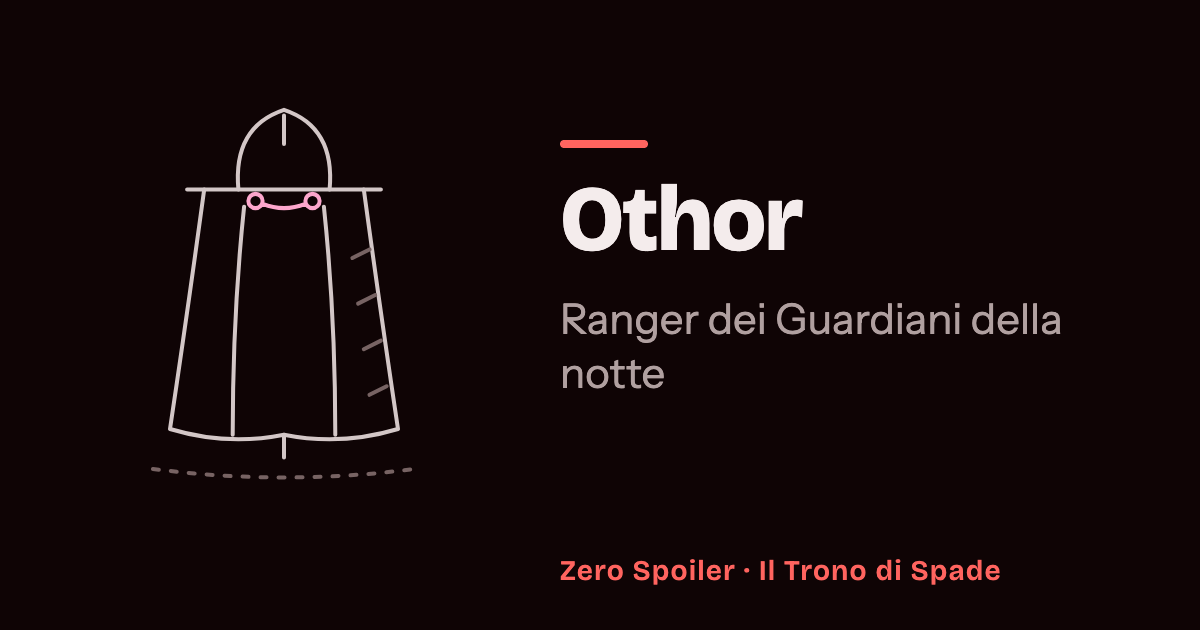
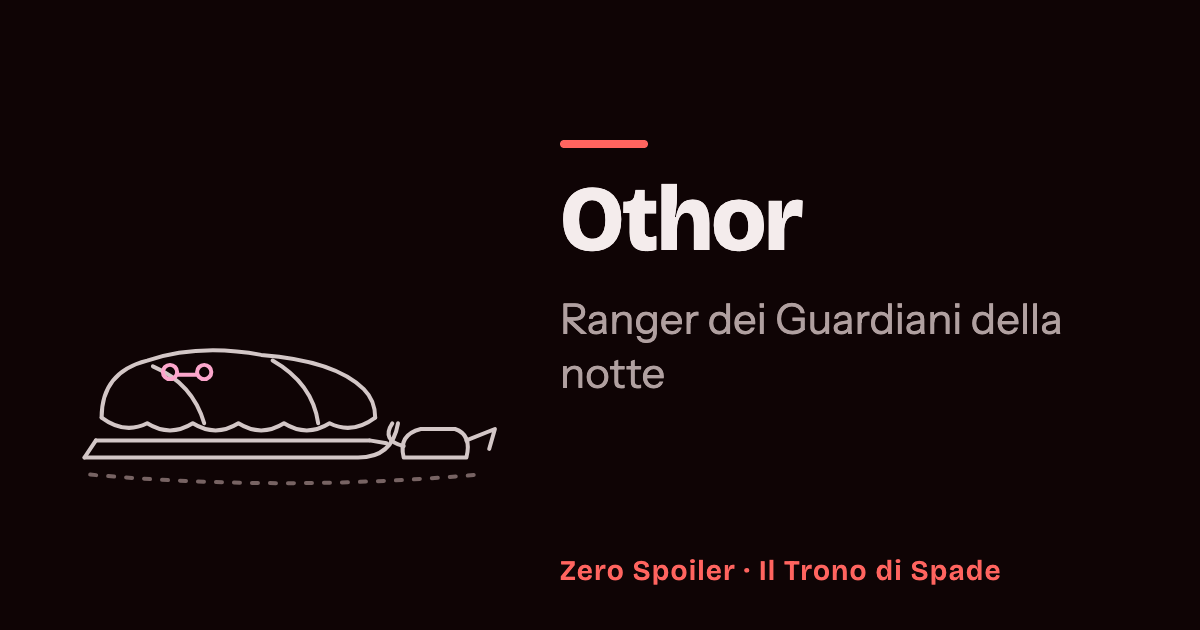
fix(thrones): open Othor in the books at Jon VII, where he is named
Jon III (site chapter 20) lists him among its characters, but neither
wiki's synopsis names him there, and neither character page cites a
chapter for his riding out with Benjen Stark. His body is named in Jon VII
(site chapter 53) in both media, so the book gate moves there. He now
opens dead in both media: the alive status and the chapter 20
relationship entry go, the log tells the body found, and the sled drawing
that was his chapter 53 stage becomes his first drawing.

Closes #1425

Changed region(s): [[0.0617, 0.1508, 0.4317, 0.7841], [0.0617, 0.6032, 0.0925, 0.6635]]

diff --git a/src/data/series/game-of-thrones/art/wall.ts b/src/data/series/game-of-thrones/art/wall.ts
@@ -642,28 +642,22 @@ const LAMP: Stroke[] = [
 ]
 
 /**
- * Othor: his black cloak hung on a pole with its hood, for the ranger who
- * rides out with Benjen Stark in Jon III (chapter 20); the show brings in
- * his body in "The Pointy End" (episode 8). The book has him alive at his
- * threshold, so the drawing shows no death. The far side is hatched; the
- * accent is the clasp.
+ * Othor: his black cloak drawn over his body on a sled, an unlit lamp
+ * beside it. Both media open him when the rangers bring him back dead, in
+ * "The Pointy End" (episode 8) and Jon VII (chapter 53), so the drawing
+ * shows what he left. The accent is the clasp.
  */
-const HOODED_CLOAK: Stroke[] = [
-  { d: 'M80 40 V30 M80 142 V150 M46 56 H114' },
-  { d: 'M64 56 Q62 34 80 28 Q98 34 96 56' },
+const SLED_BODY: Stroke[] = [
+  ...SLED,
+  DRAPED_CLOAK,
+  DRAPE_HEM,
+  DRAPE_FOLDS,
   {
-    d: 'M52 56 Q46 100 40 140 Q60 146 80 142 Q100 146 120 140 Q114 100 108 56',
-  },
-  { d: 'M66 62 Q62 100 62 142 M94 62 Q98 100 98 142', role: 'soft' },
-  {
-    d: `${circle(70, 60, 2.5)} ${circle(90, 60, 2.5)} M72.5 61 Q80 64 87.5 61`,
+    d: `${circle(40, 120, 2.5)} ${circle(52, 120, 2.5)} M42.5 121 H49.5`,
     role: 'accent',
   },
-  {
-    d: 'M104 80 l6 -3 M106 96 l6 -3 M108 112 l6 -3 M110 128 l6 -3',
-    role: 'ambient',
-  },
-  shadow(80, 154, 46),
+  ...LAMP,
+  shadow(80, 156, 68),
 ]
 
 /** The first season's Night's Watch (#1052), keyed by record id. */
@@ -688,7 +682,7 @@ export const WALL_DRAWINGS = {
   'othell-yarwyck': MASON_HAMMER,
   'bowen-marsh': LEDGER,
   'jaremy-rykker': SHEATHED_SWORD,
-  'othor': HOODED_CLOAK,
+  'othor': SLED_BODY,
 } satisfies Drawings
 
 /** The Night's Watch drawn again later in the story. */
@@ -948,27 +942,6 @@ export const wallRedrawn: Redrawings = {
     },
   ],
   'othor': [
-    // The cloak drawn over his body on a sled, an unlit lamp beside it: the
-    // rangers bring him back dead in Jon VII (chapter 53). The show has him
-    // dead at his threshold, so the stage is the book's alone. The accent
-    // is the clasp.
-    {
-      episode: 8,
-      chapter: 53,
-      source: 'chapter',
-      value: [
-        ...SLED,
-        DRAPED_CLOAK,
-        DRAPE_HEM,
-        DRAPE_FOLDS,
-        {
-          d: `${circle(40, 120, 2.5)} ${circle(52, 120, 2.5)} M42.5 121 H49.5`,
-          role: 'accent',
-        },
-        ...LAMP,
-        shadow(80, 156, 68),
-      ],
-    },
     // The same cloak, its hem burnt ragged, the lamp knocked over: he rises
     // as a wight and Jon burns him in the Lord Commander's rooms in Jon VIII
     // (chapter 61). The show tells it in his threshold episode, so the stage

diff --git a/src/data/series/game-of-thrones/records/season-1.ts b/src/data/series/game-of-thrones/records/season-1.ts
@@ -1972,12 +1972,12 @@ export const season1: ThronesSaga = {
       },
       visual: { art: 'jaremy-rykker', tint: 'cyan' },
     },
-    // Show: “The Pointy End” (episode 8), his body is found and identified. Books: Jon III (site chapter 20), he rides out with Benjen Stark’s party, and his body is identified in Jon VII (site chapter 53).
+    // Show: “The Pointy End” (episode 8), his body is found and identified. Books: Jon VII (site chapter 53), the same, when Ser Jaremy Rykker names the two bodies. Jon III (site chapter 20) lists him among its characters, but no synopsis names him there (#1425). He is already dead when he opens, so the log tells it.
     {
       id: 'othor',
       kind: 'character',
       revealedAtEpisode: 8,
-      revealedAtChapter: 20,
+      revealedAtChapter: 53,
       name: { it: 'Othor', en: 'Othor' },
       summary: {
         it: 'Un ranger dei Guardiani della notte, del gruppo di Benjen Stark.',
@@ -6535,17 +6535,14 @@ export const season1: ThronesSaga = {
         en: 'Ranger of the Night’s Watch',
       },
       log: {
-        it: 'È uno degli uomini che partono con Benjen Stark.',
-        en: 'He is one of the men who ride out with Benjen Stark.',
+        it: 'Il suo corpo viene trovato nella Foresta Stregata insieme a quello di Jafer Flowers.',
+        en: 'His body is found in the Haunted Forest together with Jafer Flowers’.',
       },
-      status: [
-        { episode: 8, chapter: 20, source: 'chapter', value: 'alive' },
-        { episode: 8, chapter: 53, value: 'deceased' },
-      ],
+      status: [{ episode: 8, chapter: 53, value: 'deceased' }],
       affiliation: [
         {
           episode: 8,
-          chapter: 20,
+          chapter: 53,
           value: { it: 'Guardiani della notte', en: 'Night’s Watch' },
         },
       ],

diff --git a/src/server/archive/thronesSeason1.test.ts b/src/server/archive/thronesSeason1.test.ts
@@ -163,7 +163,8 @@ const RECORDS: {
   { id: 'othell-yarwyck', episode: 7, chapter: 49 },
   { id: 'bowen-marsh', episode: 41, chapter: 22 },
   { id: 'jaremy-rykker', episode: 7, chapter: 22 },
-  { id: 'othor', episode: 8, chapter: 20 },
+  // Othor's book gate moved to Jon VII, where he is named (#1425).
+  { id: 'othor', episode: 8, chapter: 53 },
   { id: 'jafer-flowers', episode: 8, chapter: 53 },
   { id: 'donal-noye', episode: 3, chapter: 20, source: 'chapter' },
   { id: 'chett', episode: 5, chapter: 42, source: 'chapter' },
@@ -1688,8 +1689,7 @@ const STAGES: {
   { id: 'bowen-marsh', episode: 50, chapter: 341 },
   { id: 'bowen-marsh', episode: 53, chapter: 344, source: 'episode', stage: 1 },
   { id: 'jaremy-rykker', episode: 8, chapter: 61, source: 'chapter' },
-  { id: 'othor', episode: 8, chapter: 53, source: 'chapter' },
-  { id: 'othor', episode: 8, chapter: 61, source: 'chapter', stage: 1 },
+  { id: 'othor', episode: 8, chapter: 61, source: 'chapter' },
   // The leads and the Essos cast redrawn from the drawing audit (#1292).
   { id: 'eddard-stark', episode: 31, chapter: 204, stage: 1 },
   { id: 'jon-snow', episode: 50, chapter: 341 },

diff --git a/src/data/series/game-of-thrones/records/season-1.relationships.ts b/src/data/series/game-of-thrones/records/season-1.relationships.ts
@@ -2577,14 +2577,6 @@ const links = {
   },
 
   // Othor and Jafer Flowers
-  otrBenjen: {
-    character: 'benjen-stark',
-    type: { en: 'Ranger he rides with', it: 'Ranger al cui seguito parte' },
-    summary: {
-      en: 'The ranger at the head of the party Othor rides out with.',
-      it: 'Il ranger alla guida del gruppo con cui Othor parte in perlustrazione.',
-    },
-  },
   otrBenjenLost: {
     character: 'benjen-stark',
     type: {
@@ -9774,10 +9766,8 @@ export const season1Relationships = {
       value: [links.jarJaferKiller, links.jarOthorDead, links.jarJeorDead],
     },
   ],
-  // Books: he rides out with Benjen in Jon III (chapter 20). Both media
-  // bring him back dead at 8 / 53.
+  // Both media bring him back dead at 8 / 53, where he opens.
   'othor': [
-    { episode: 8, chapter: 20, source: 'chapter', value: [links.otrBenjen] },
     {
       episode: 8,
       chapter: 53,

diff --git a/src/test/series.ts b/src/test/series.ts
@@ -147,7 +147,8 @@ const EXPECTED: Record<string, Expected> = {
   // Landing, riverlands and Vale stories (#1362): 406 stories and 695
   // timelines. Chronicles, timelines and statuses counted 2026-11-20, after
   // the Winterfell and northern stories (#1361): 566 stories, 734 timelines
-  // and 260 statuses.
+  // and 260 statuses. Statuses counted 2026-11-21, after Othor's book gate
+  // moved to Jon VII and his alive entry went (#1425): 259.
   'game-of-thrones': {
     kinds: [
       'affiliation',
@@ -170,7 +171,7 @@ const EXPECTED: Record<string, Expected> = {
       chronicles: 566,
       linkedOrigins: 0,
       places: 60,
-      statuses: 260,
+      statuses: 259,
       timelines: 734,
       visits: 0,
     },

diff --git a/src/server/archive/thronesChronicle.test.ts b/src/server/archive/thronesChronicle.test.ts
@@ -3963,9 +3963,8 @@ const FIRST: { chapter: number; episode: number; id: string }[] = [
   { id: 'halder', episode: 7, chapter: 20 },
   { id: 'jaremy-rykker', episode: 7, chapter: 22 },
   { id: 'othell-yarwyck', episode: 7, chapter: 49 },
+  { id: 'othor', episode: 8, chapter: 53 },
   { id: 'jafer-flowers', episode: 8, chapter: 53 },
-  // Othor opens at chapter 20 in the books, but his one story is at 8/53:
-  // no page tells a chapter 20 scene of his (verifier, #1363).
   // Books only: Donal Noye and Chett are not in the show.
   { id: 'donal-noye', episode: 3, chapter: 20 },
   { id: 'chett', episode: 5, chapter: 42 },

diff --git a/docs/content-provenance/game-of-thrones-season-1-characters.md b/docs/content-provenance/game-of-thrones-season-1-characters.md
@@ -1468,7 +1468,9 @@ Filed, gates as episode / site chapter:
   so his texts say "head of the stewards".
 - Jaremy Rykker 7 / 22: `deceased` at chapter 61, book only, where Jon VIII
   tells it.
-- Othor 8 / 20: alive in the book until his body is identified at chapter 53.
+- Othor 8 / 53: opens `deceased`, as Jafer Flowers does. Jon III (chapter 20)
+  lists him among its characters without naming him, so the book waits for Jon
+  VII, where his body is named (#1425).
 - Jafer Flowers 8 / 53: opens `deceased`. The hand found at chapter 49 and in
   episode 7 is not yet named as his.
 - Donal Noye, chapter 20, and Chett, chapter 42: book only. Chett's role moves
